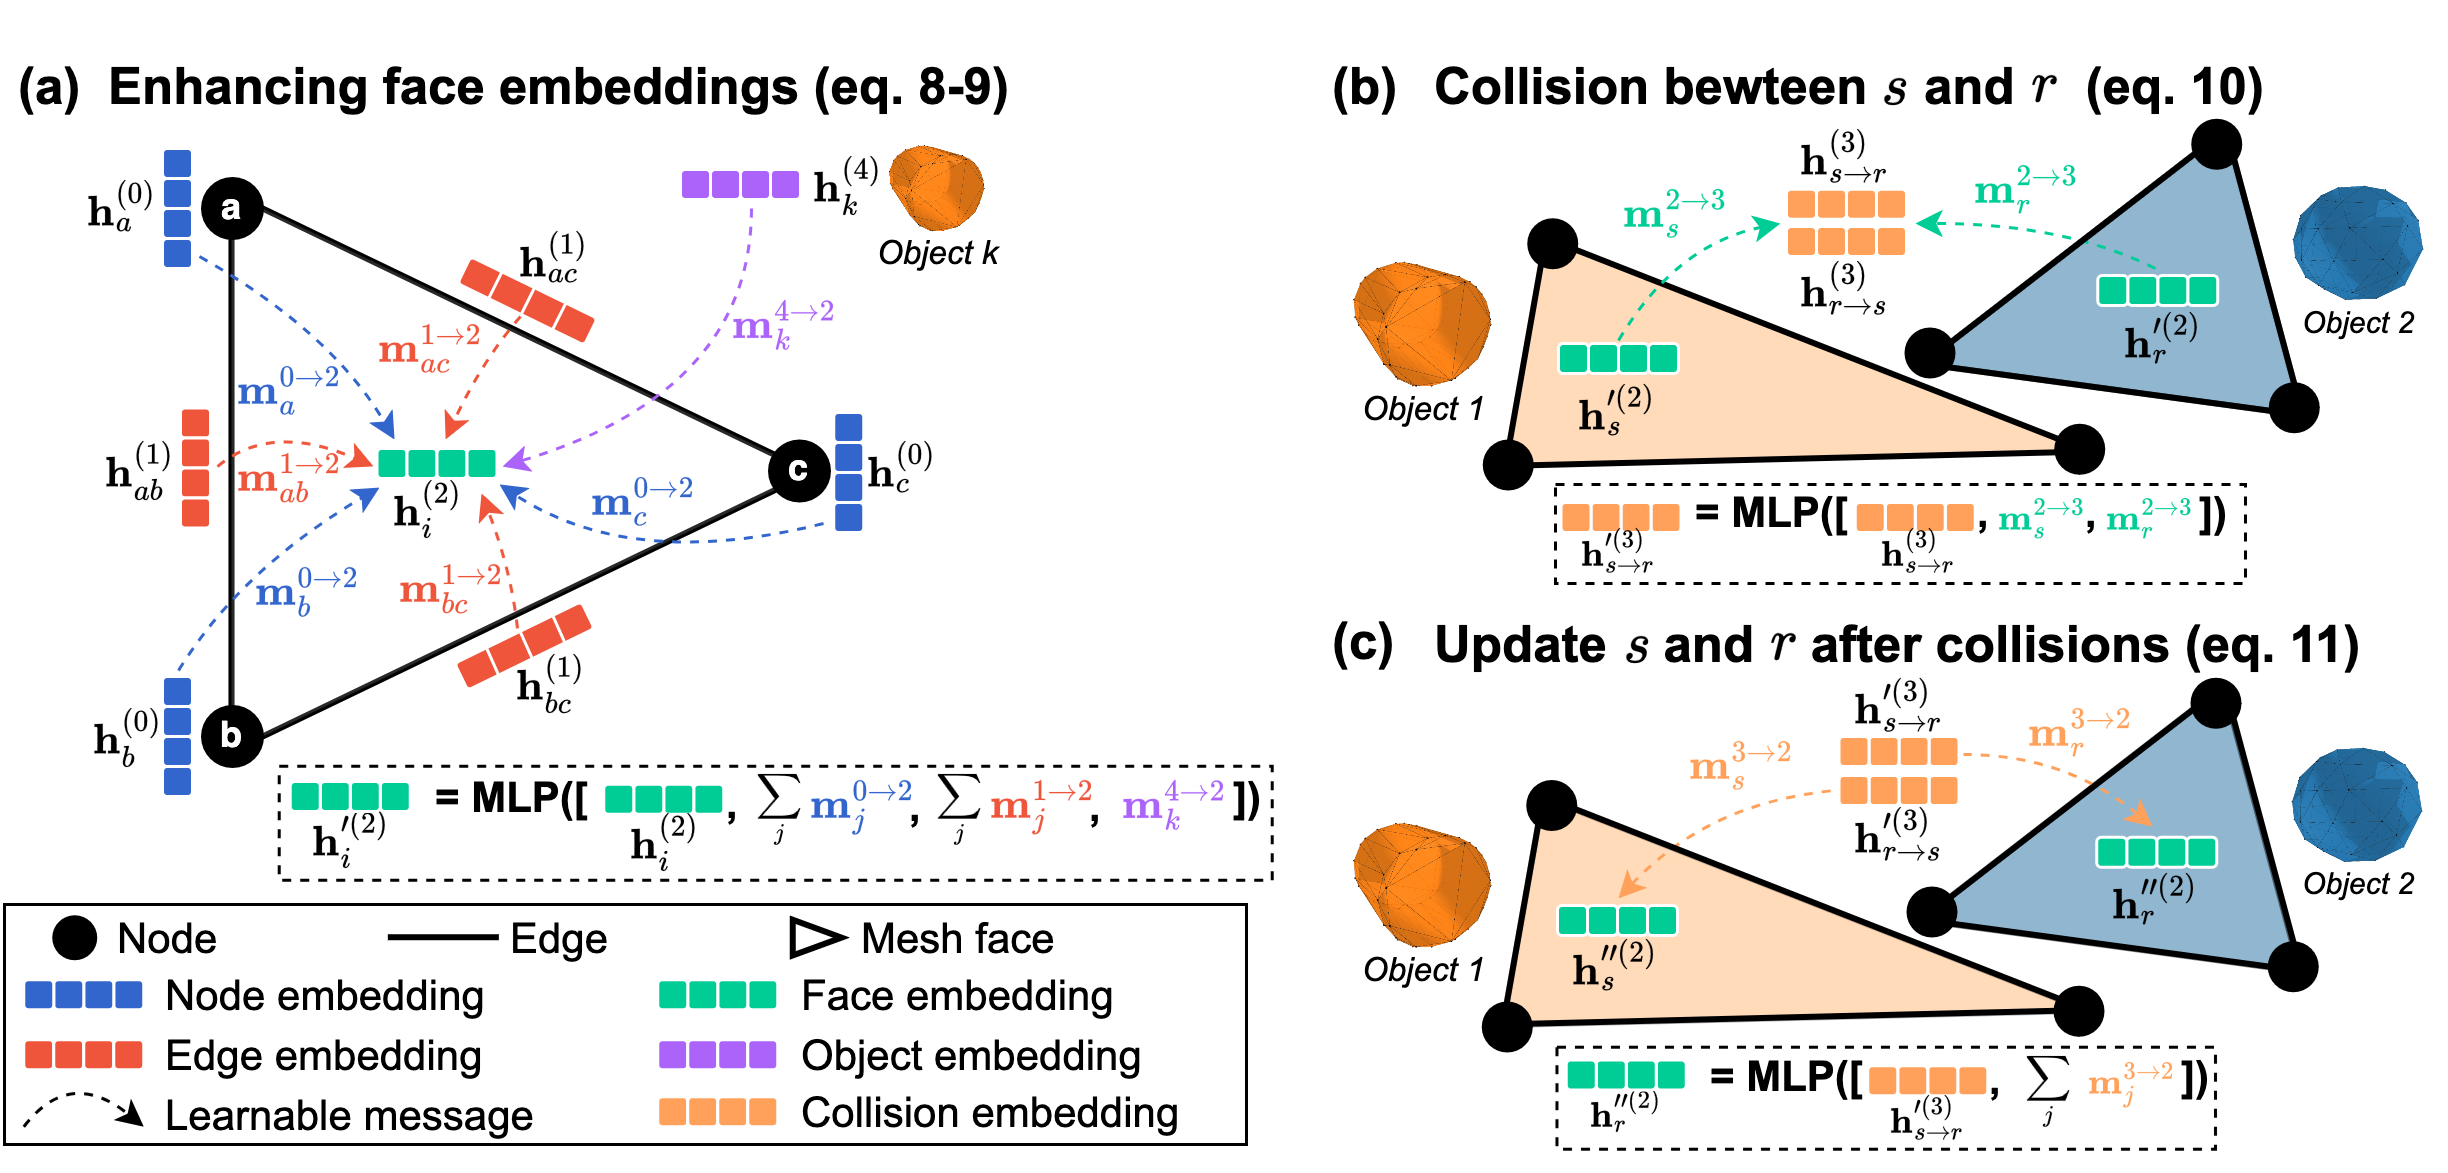
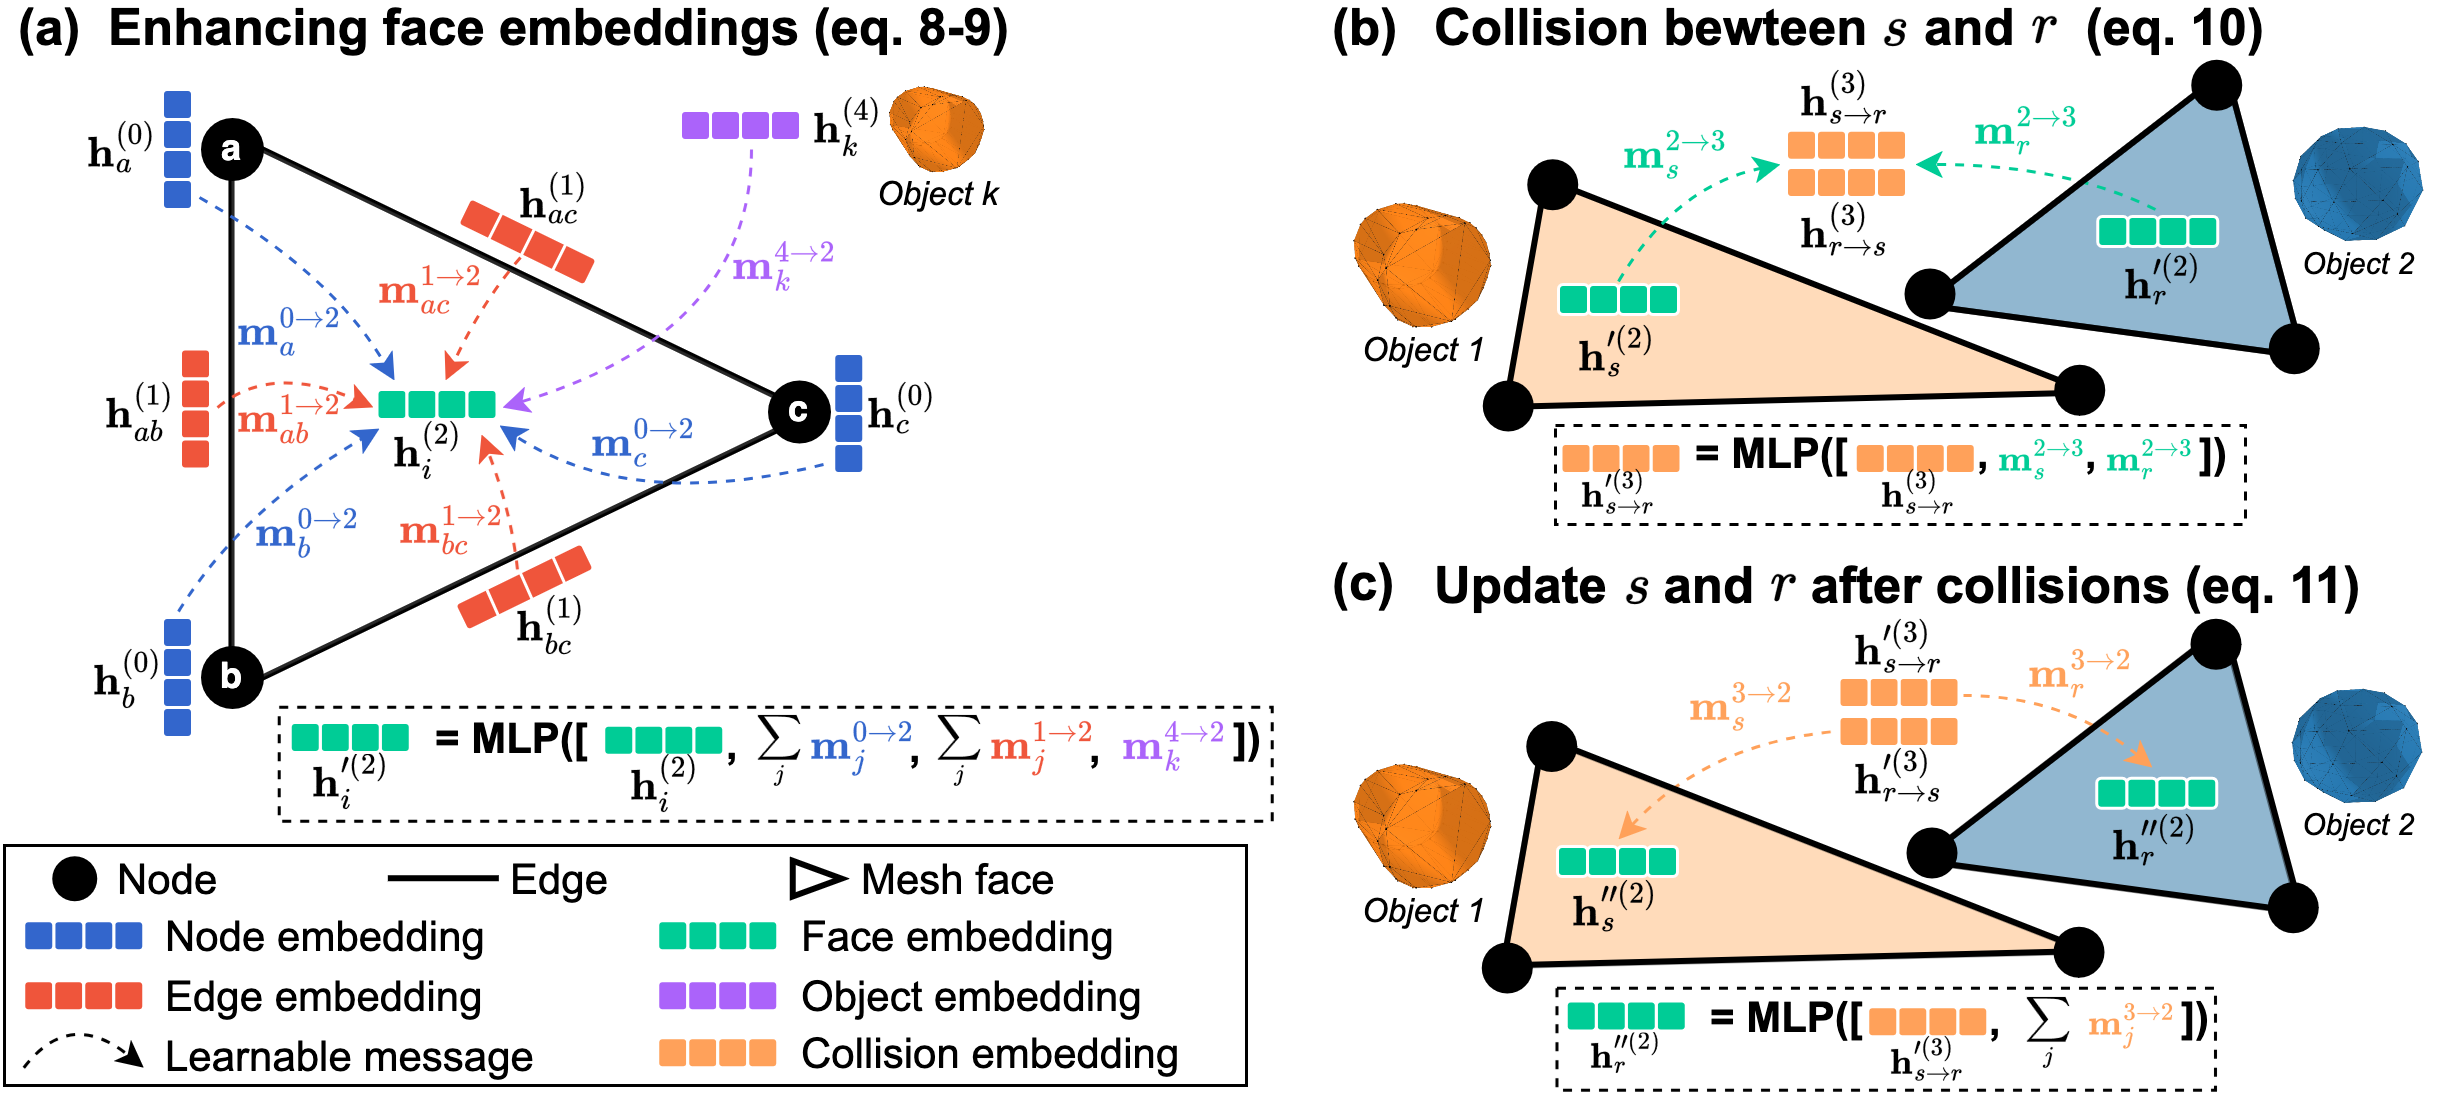
html: improve spacing around figures

Changed region(s): [[0.0, 0.0, 0.9935, 0.9767], [0.683, 0.9767, 0.7451, 1.0], [0.8382, 0.9767, 0.8693, 1.0]]

diff --git a/index.html b/index.html
@@ -199,7 +199,6 @@
               rigid-body interactions. By processing sequences of these structures over time, our model can predict
               future object states through autoregressive rollouts.
             </p>
-            <br>
             <image class="blend-img-background center" src="static/images/rollout_representations.png"
               alt="Rigid body scenes as combinatorial complexes" style="max-width: 90%; height: auto">
               <p>
@@ -258,7 +257,7 @@
     <div class="hero-body">
       <div class="container is-max-desktop">
         <h2 class="title is-3">Results</h2>
-        <p class="has-text-justified">
+        <p class="has-text-justified" style="margin-bottom: 1rem;">
           We evaluate HOPNet on four progressively complex datasets (MOVi-spheres, MOVi-A, MOVi-B, MOVi-C) involving
           realistic 3D object collisions, demonstrating superior accuracy over existing graph-based simulators. Our
           model produces stable long-term rollouts and maintains low error over time, outperforming prior methods like
@@ -267,8 +266,8 @@
           Additional experiments show that exposure to diverse, dynamic collisions during training significantly
           improves generalization, highlighting the model’s robustness.
         </p>
-        <div id="results-carousel" class="carousel results-carousel center" style="max-width: 100%; height: auto">
-          <div class="item">
+        <div id="results-carousel" class="carousel results-carousel center" style="max-width: 100%; height: auto;">
+          <div class="item" style="margin: 0; padding: 0;">
             <!-- Your image here -->
             <img src="static/images/main_results.png" alt="Main results" style="max-width: 90%; height: auto"
               class="center" />
@@ -279,7 +278,7 @@
               seeds.
             </p>
           </div>
-          <div class="item">
+          <div class="item" style="margin: 0; padding: 0;">
             <!-- Your image here -->
             <img src="static/images/generalization_with_distribution.png" alt="Generalization results" />
             <h2 class="subtitle is-6 has-text-justified">
